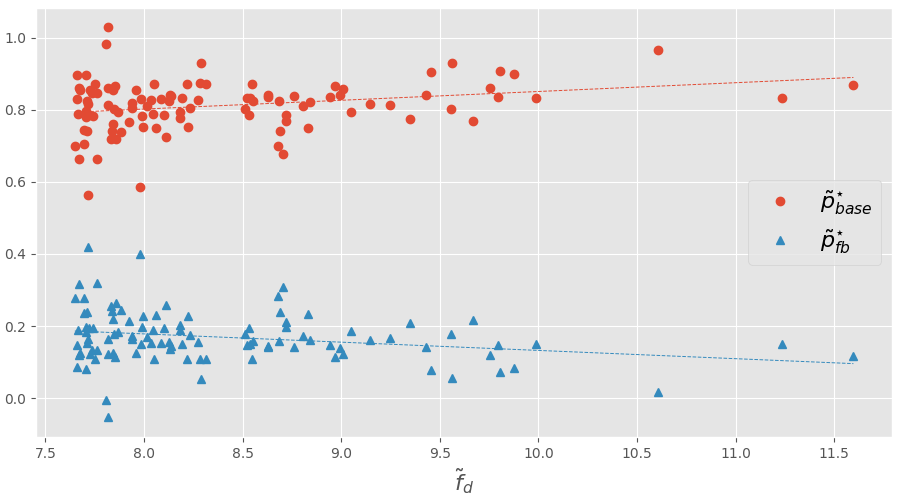
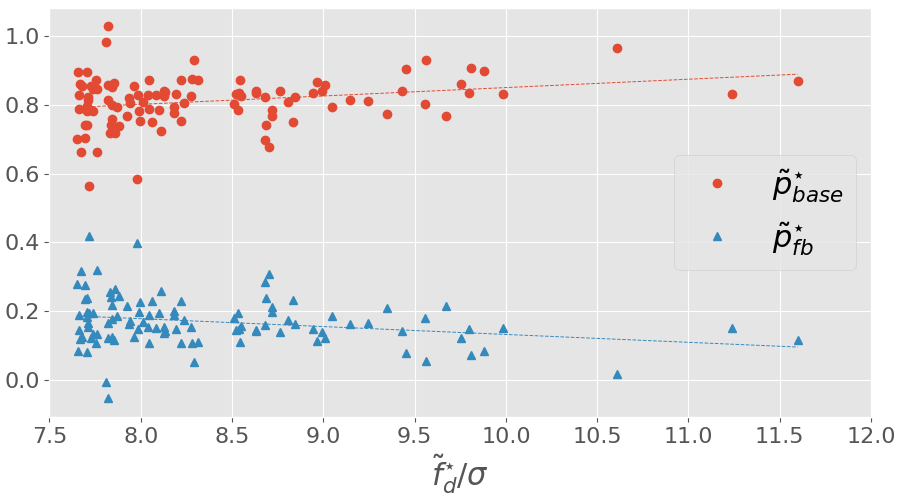
Update plot and legend for pressure_ratio

diff --git a/draft_p2.tex b/draft_p2.tex
@@ -334,21 +334,25 @@ events.
 
 \subsubsection{Contribution of forebody and base pressure fluctuations to the overall drag fluctuation}
 \label{sec:forebody_and_base_contribution}
+
+\begin{figure}
+  \centering
+  \includegraphics[width=.8\linewidth]{pressure_ratio/pressure_ratio.png}
+  \label{fig:pressure_ratio}
+  \caption{Contribution of the forebody and base pressure fluctuation to the overall drag fluctuation for the 104 sampled extreme drag fluctuations in the control run. To each of these fluctuation correspond a unique value of the drag $f^{\star}_d$, and a unique pair ($\tilde{p}^{\star}_{base}$,$\tilde{p}^{\star}_{fb}$). The dashed lines are first order least square fits of the data. They highlight that, as the value of the fluctuation increases, so is the relative contribution of the forebody pressure fluctuation. }
+\end{figure}
+
 In section~\ref{sec:test_flow}, we pointed out that typical drag fluctuations mainly originate from fluctuations of the forebody pressure, \textit{i.e.} pressure fluctuations resulting from the upstream turbulent flow.
 We now investigate the relative contribution of forebody and base pressure fluctuations to the overall drag fluctuations, in the case of the sampled \textit{extreme} drag fluctuations.
 Let $(t^{\star}, f_d^{\star})$ be an extreme drag event.
-In the following we consider the effective fluctuation $\tilde{f}_d^{\star} = f_d^{\star} - \langle f_d \rangle$.
+In the following we consider the effective fluctuation $\tilde{f}_d^{\star} = f_d^{\star} - \bar{f}_d$.
 It can be further decomposed into 
 \begin{equation}
   \tilde{f}_d^{\star} = \tilde{p}_{fb}^{\star} - \tilde{p}_{base}^{\star},
 \end{equation}
-where $\tilde{p}_{fb}^{\star}$ and $\tilde{p}_{base}^{\star}$ denote the fluctuation of the forebody pressure and base pressure, respectively, that is $\tilde{p}_{base}^{\star} = p_{base}^{\star} - \langle p_{base} \rangle$ .
+where $\tilde{p}_{fb}^{\star}$ and $\tilde{p}_{base}^{\star}$ denote the fluctuation of the forebody pressure and base pressure, respectively, that is $\tilde{p}_{base}^{\star} = p_{base}^{\star} - \bar{p}_{base}$ .
 Figure~\ref{fig:contribution_forebody_and_base_pressure} shows the relative contributions $\tilde{p}_{base}^{\star}/\tilde{f}_d^{\star}$ and $\tilde{p}_{fb}^{\star}/\tilde{f}_d^{\star}$ to the overall drag fluctuation for the base and forebody pressure fluctuations, respectively.  
-\begin{figure}
-  \centering
-  \includegraphics{pressure_ratio/pressure_ratio.png}
-  \label{fig:pressure_ratio}
-\end{figure}
+
 It shows that among the 104 sampled extreme events, the base pressure fluctuation typically contributes for $80\%$ of the overall drag fluctuation.
 By contrast with typical drag fluctuations, extreme fluctuations of the drag acting on the square cylinder are dominated by the variation of the pressure in the vicinity of the base of the obstacle.
 In addition, figure~\ref{fig:pressure_ratio} hints that, the larger the fluctuation, the more important is the contribution of the base pressure fluctuation, relatively to the forebody pressure fluctuation.

diff --git a/figures/pressure_ratio/plot_pressure_ratio.py b/figures/pressure_ratio/plot_pressure_ratio.py
@@ -62,8 +62,11 @@ fitRear.set_linestyle('--')
 fitRear.set_linewidth(0.7)
 
 
-ax.set_xlabel(r'$\tilde{f}_d$',fontsize=16)
-ax.legend(loc='best', fontsize=16)
+ax.set_xlabel(r'$\tilde{f}^{\star}_d / \sigma$',fontsize=22)
+ax.legend(loc='best', fontsize=22)
+plt.xticks(fontsize=16)
+plt.yticks(fontsize=16)
+ax.set_xlim((7.5,12))
 
 fname = 'pressure_ratio.png'
 plt.savefig(fname)
